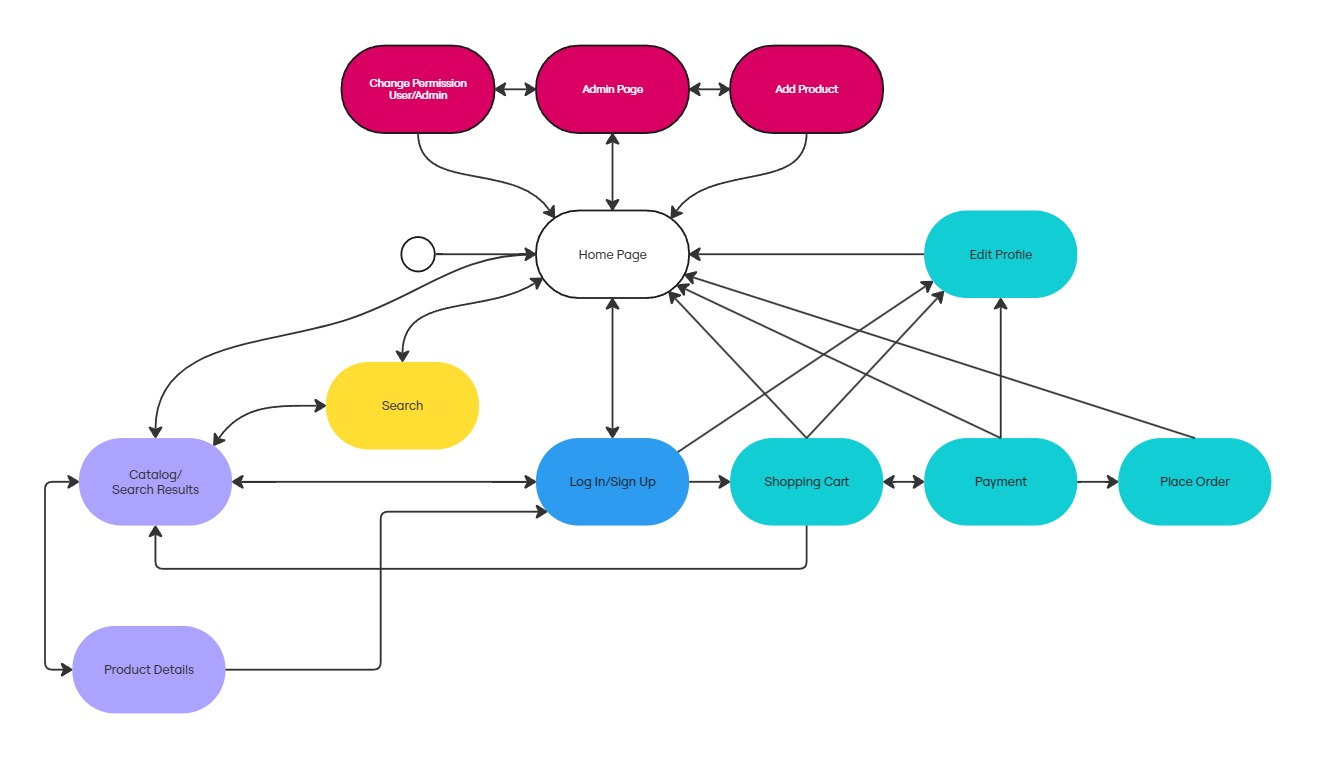
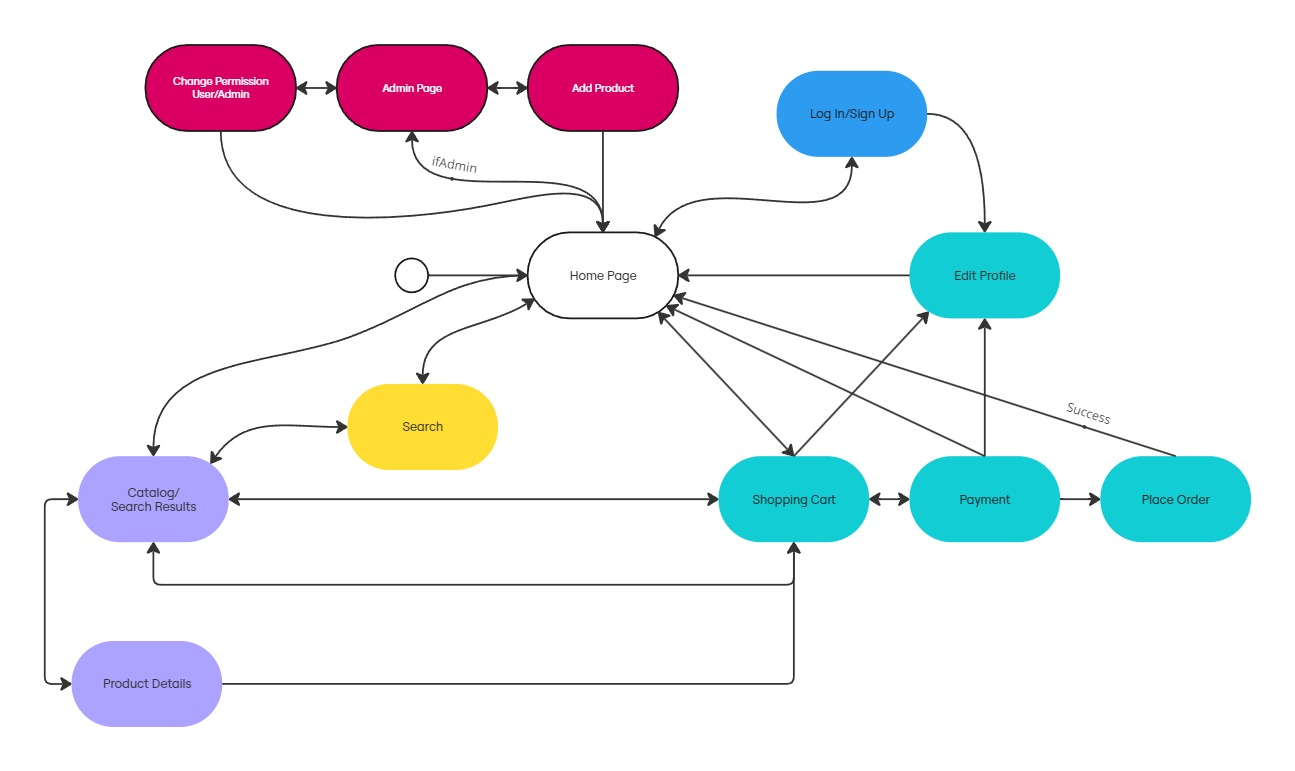
update navigation diagram

diff --git a/README.md b/README.md
@@ -19,7 +19,7 @@ The project will include:
 - Product/services records include, at least: name, id, photo, description, price, quantity (in stock), and quantity sold.
 - Selling Products: Products are selected, their quantity chosen, and are included in a cart. Products are purchased using a credit card number (any number is accepted by the system).
 - Product/Service Management: Administrators can create/update/read/delete (crud) new products and services. For example, they can change the stock quantity.
-- Your functionality: Create a functionality that is specific to your application.
+- Your functionality: Create a functionality that is specific to your application. &check;
 - Responsive design for various screen sizes (desktop, tablet, mobile). &check;
 
 **Additional requirements** we might be able to implement:
@@ -60,6 +60,8 @@ The project will include:
 ![Navigation Diagram](./diagram.jpg)
 
 - Some sections are available in the Navigation Bar, but most are hidden behind the product or cart sections
+- Magenta-Colored Pages require being logged in with Admin Permissions
+- Cyan-Colored Pages require being logged in
 
 ---
 
